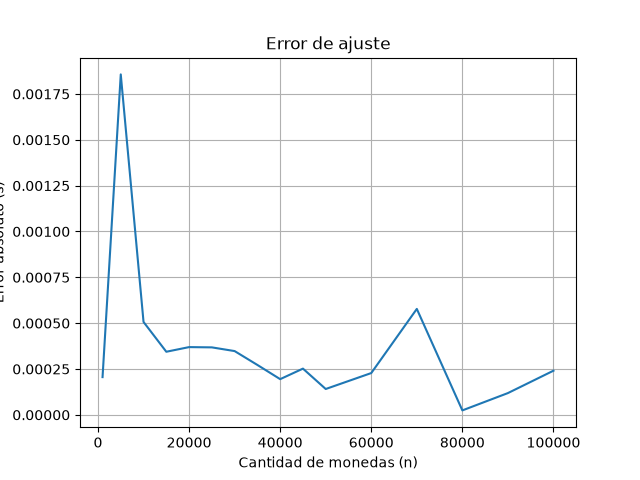
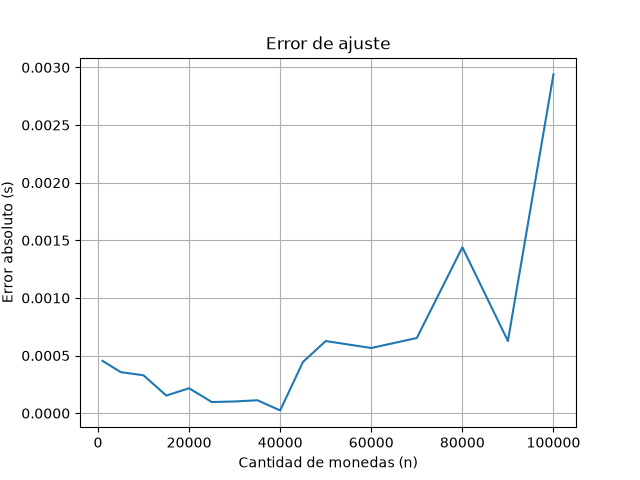
Arreglo el algoritmo y adapto mediciones

diff --git a/tp1.py b/tp1.py
@@ -1,48 +1,74 @@
-import random
+import sys
 
 
-def inicializar_juego(n, valor_min=1, valor_max=10):
-    monedas = [random.randint(valor_min, valor_max) for _ in range(n)]
-    return monedas
+def cargar_monedas(ruta_archivo):
+    with open(ruta_archivo, "r") as f:
+        for linea in f:
+            linea = linea.strip()
+            if not linea or linea.startswith("#"):
+                continue
+            return [int(x) for x in linea.split(";") if x.strip()]
+    return []
 
 
 def elegir_moneda(fila, inicio, fin, turno_sofia):
-
     if turno_sofia:
-        if fila[inicio] >= fila[fin]:
-            return fila[inicio], inicio + 1, fin
-        else:
-            return fila[fin], inicio, fin - 1
+        return "Primera" if fila[inicio] >= fila[fin] else "Última"
     else:
-        if fila[inicio] <= fila[fin]:
-            return fila[inicio], inicio + 1, fin
-        else:
-            return fila[fin], inicio, fin - 1 
+        return "Primera" if fila[inicio] <= fila[fin] else "Última"
 
 
-def jugar(cant_monedas):
-    fila = inicializar_juego(cant_monedas)
+def jugar(fila):
+    inicio = 0
+    fin = len(fila) - 1
     valor_sofia = 0
     valor_mateo = 0
     turno_sofia = True
-
-    inicio = 0
-    fin = len(fila) - 1
+    jugadas = []
 
     while inicio <= fin:
-        moneda, inicio, fin = elegir_moneda(fila, inicio, fin, turno_sofia)
+        jugador = "Sophia" if turno_sofia else "Mateo"
+        eleccion = elegir_moneda(fila, inicio, fin, turno_sofia)
+
+        if eleccion == "Primera":
+            moneda = fila[inicio]
+            inicio += 1
+        else:
+            moneda = fila[fin]
+            fin -= 1
 
         if turno_sofia:
             valor_sofia += moneda
         else:
             valor_mateo += moneda
 
+        jugadas.append(f"{eleccion} moneda para {jugador}")
         turno_sofia = not turno_sofia
 
-    if valor_sofia > valor_mateo:
-        return "Gano Sofia"
-    elif valor_mateo > valor_sofia:
-        return "Gano Mateo"
-    else:
-        return "Empate"
+    return jugadas, valor_sofia, valor_mateo
 
+
+def imprimir_resultado(movimientos, ganancia_s, ganancia_m):
+    print(movimientos)
+    print(f"Ganancia de Sophia: {ganancia_s}")
+    print(f"Ganancia de Mateo: {ganancia_m}")
+
+
+def main():
+    if len(sys.argv) < 2:
+        print("Uso: python3 tp1.py <ruta/a/entrada.txt>")
+        return
+
+    ruta_archivo = sys.argv[1]
+    fila_monedas = cargar_monedas(ruta_archivo)
+
+    if not fila_monedas:
+        print(f"Error: No se pudieron cargar monedas desde '{ruta_archivo}'.")
+        return
+
+    movimientos, ganancia_sofia, ganancia_mateo = jugar(fila_monedas)
+    imprimir_resultado(movimientos, ganancia_sofia, ganancia_mateo)
+
+
+if __name__ == "__main__":
+    main()

diff --git a/mediciones1.py b/mediciones1.py
@@ -1,6 +1,7 @@
 import time
 import numpy as np
 from tp1 import jugar
+import random
 import matplotlib.pyplot as plt
 from scipy.optimize import curve_fit
 
@@ -9,10 +10,10 @@ def medir_tiempo(n, repeticiones=10):
     tiempos = []
 
     for _ in range(repeticiones):
+        fila = [random.randint(1, 1000) for _ in range(n)]
+
         inicio = time.perf_counter()
-
-        jugar(n)
-
+        jugar(fila)
         fin = time.perf_counter()
 
         tiempos.append(fin - inicio)
@@ -25,9 +26,22 @@ def funcion_lineal(n, c1, c2):
 
 
 tamaños = [
-    1000, 5000, 10000, 15000, 20000,
-    25000, 30000, 35000, 40000, 45000,
-    50000, 60000, 70000, 80000, 90000, 100000
+    1000,
+    5000,
+    10000,
+    15000,
+    20000,
+    25000,
+    30000,
+    35000,
+    40000,
+    45000,
+    50000,
+    60000,
+    70000,
+    80000,
+    90000,
+    100000,
 ]
 
 tiempos = []
@@ -36,7 +50,7 @@ for n in tamaños:
     tiempo = medir_tiempo(n)
     tiempos.append(tiempo)
     print(n, tiempo)
-    
+
 # Ajuste por cuadrados mínimos
 
 parametros, _ = curve_fit(funcion_lineal, tamaños, tiempos)
@@ -52,9 +66,7 @@ tiempos_ajustados = funcion_lineal(np.array(tamaños), c1, c2)
 
 # Error cuadrático total
 
-error_cuadratico = np.sum(
-    (tiempos_ajustados - np.array(tiempos)) ** 2
-)
+error_cuadratico = np.sum((tiempos_ajustados - np.array(tiempos)) ** 2)
 
 print("Error cuadrático total:", error_cuadratico)
 
@@ -74,9 +86,7 @@ plt.savefig("mediciones_ajuste.png")
 
 # Gráfico del error
 
-errores = np.abs(
-    tiempos_ajustados - np.array(tiempos)
-)
+errores = np.abs(tiempos_ajustados - np.array(tiempos))
 
 plt.figure()
 

diff --git a/tp1-informe.md b/tp1-informe.md
@@ -1,0 +1,46 @@
+1) Planteamos una solución
+
+En un juego tradicional, en el que cada jugador decide qué moneda tomar en su turno, Sophia no podría determinar de antemano las elecciones de Mateo y para garantizar su victoria debería considerar las posibles decisiones de su oponente y las diferentes secuencias de elecciones que podrían producirse. Sin embargo, en este problema Sophia controla las elecciones de ambos jugadores, lo que le permite utilizar una estrategia greedy basada únicamente en los valores de las monedas disponibles en los extremos.
+
+La estrategia consiste en que, cuando llega el turno de Sophia, elige para sí misma la moneda de mayor valor entre las dos disponibles en los extremos. Cuando llega el turno de Mateo, Sophia elige para él la moneda de menor valor entre los dos extremos disponibles.
+
+Esta estrategia tiene una propiedad fundamental: en cada ronda, la moneda que recibe Mateo tiene un valor menor o igual que la moneda que recibió Sophia inmediatamente antes.
+
+Para demostrarlo, supongamos que al comienzo de una ronda la fila es:
+[a,b,c,d]
+Sophia puede elegir entre a y d. Supongamos que:
+d >= a 
+Sophia elige d. Luego, la fila queda:
+[a,b,c]
+Mateo puede elegir entre a y c, pero Sophia controla su elección y le asigna la moneda de menor valor, o lo que es igual: min(a,c)
+Como: min(a,c) <= a <= d se cumple que la moneda recibida por Mateo tiene un valor menor o igual que la moneda que recibió Sophia en esa ronda.
+
+Este mismo razonamiento se aplica en cada ronda del juego. Por lo tanto, si agrupamos las elecciones de Sophia y Mateo de a pares, se cumple: moneda de Mateo <= moneda de Sophia en cada par de turnos. Al sumar estas desigualdades para todas las rondas, obtenemos: valor total de Mateo <= valor total de Sophia
+
+Por lo tanto, la estrategia garantiza que Sophia nunca obtiene un puntaje menor que Mateo.
+
+Puede existir un empate cuando, en todas las rondas, la moneda asignada a Mateo tiene el mismo valor que la moneda elegida por Sophia. Sin embargo, el enunciado indica que se desestime el caso particular en el que hay una cantidad par de monedas de igual valor, ya que en esa situación ambos jugadores reciben la misma cantidad de monedas del mismo valor y el empate se produce independientemente de la estrategia utilizada.
+
+Descartando dicho caso, la estrategia greedy garantiza que Sophia obtiene un puntaje estrictamente mayor que Mateo y, por lo tanto, siempre gana.
+
+6) Corroboración empírica de la complejidad
+
+A partir del análisis teórico se determinó que la complejidad temporal del algoritmo es O(n). Para corroborar experimentalmente este resultado, se realizaron mediciones del tiempo de ejecución para distintos tamaños de entrada, utilizando entre 1.000 y 100.000 monedas. Para cada tamaño se realizaron 10 ejecuciones y se utilizó el tiempo promedio obtenido. Los valores de las monedas fueron generados aleatoriamente entre 1 y 10.
+
+Dado que el análisis teórico indica un comportamiento lineal, se utilizó el modelo T(n)=c1n+c2 y se obtuvo mediante el método de cuadrados mínimos la recta que mejor se ajusta a las mediciones.
+
+En la ejecución realizada se obtuvieron los parámetros:
+c1 = 5.231731844412835e-07
+c2 = 0.0005992163652310811
+dando como resultado el siguiente ajuste: 
+T(n)=5.231731844412835e-07n+ 0.0005992163652310811
+
+[Gráfico: mediciones-ajuste.png]
+
+Como puede observarse en el gráfico, los tiempos medidos presentan un comportamiento aproximadamente lineal y se encuentran próximos a la recta obtenida mediante el ajuste.
+
+También se calculó el error cuadrático total del ajuste, cuyo valor fue \(4.91\times10^{-6}\). El gráfico de error absoluto muestra la diferencia entre cada tiempo medido y el tiempo estimado por el modelo lineal. Las diferencias observadas son pequeñas en comparación con el crecimiento general de los tiempos, aunque existen algunas mediciones con un error mayor.
+
+[Gráfico: error-cuadrático.png]
+
+En conclusión, el comportamiento observado experimentalmente resulta consistente con la complejidad temporal teórica O(n).

diff --git a/README.md b/README.md
@@ -3,7 +3,7 @@
 ## Integrantes
 
 -
--
+- Manuel Amas - 114449
 - Magali Karen Huertas - 111173
 
 ## Ejecución
